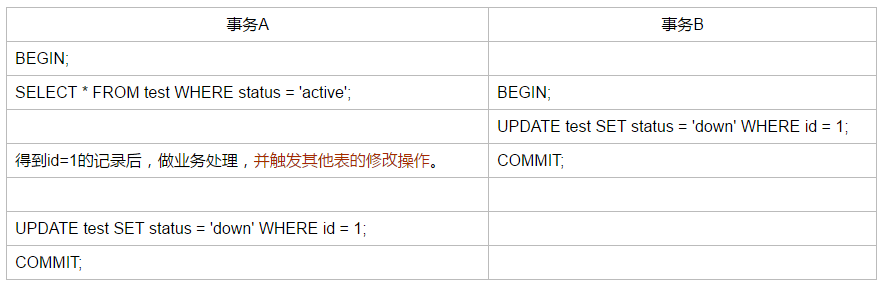
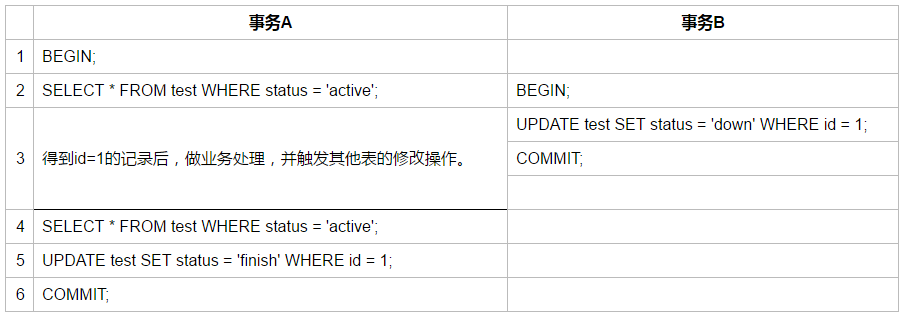
UPDATE

Changed region(s): [[0.0, 0.0, 1.0, 0.5895], [0.0, 0.6175, 1.0, 1.0]]

diff --git a/source/_posts/innodb_optimistic_lock.md b/source/_posts/innodb_optimistic_lock.md
@@ -23,8 +23,16 @@ CREATE TABLE `test` (
 | 1         | active   |
 | 2         |   down   |
 
+先关闭自动提交：
+
+```sql
+show variables like 'autocommit';
+set autocommit = 0;
+```
 执行如下两个事务：
 
 ![](/img/innodb_optimistic_lock.png)
 
-事务 B 先于事务 A 执行，id = 1 的记录状态已经发生了改变，但事务 A 仍然成功执行，并修改了其他表数据。如果这并非您业务想看到的结果的话，应该使用乐观锁，这样在事务 B 执行完成后，事务 A 中对 test 表最后的修改必然失败，整个事务 A 便处理失败，不会出现您预想不到的混乱现象。
+事务 A 在 SELECT 操作时，只会获取共享锁，而非排它锁，因而事务 B 可以先于事务 A 成功提交，导致 id = 1 的记录状态发生了改变，但事务 A 仍然可以成功执行，并修改了其他表数据。如果这并非您业务想看到的结果的话，应该使用乐观锁，这样在事务 B 执行完成后，事务 A 中对 test 表最后的修改必然失败，整个事务 A 便处理失败，不会出现您预想不到的混乱现象。
+
+看看有意思的，事务 A 在执行第 4 行 SELECT 语句时，看到的 id = 1 的 status 仍然是 active，这是受事务的隔离级别 Repeatable read 决定的。第 5 行如果增加 status = 'active' 的 WHERE 条件，则此 UPDATE 操作便不会修改 status 为 finish。
